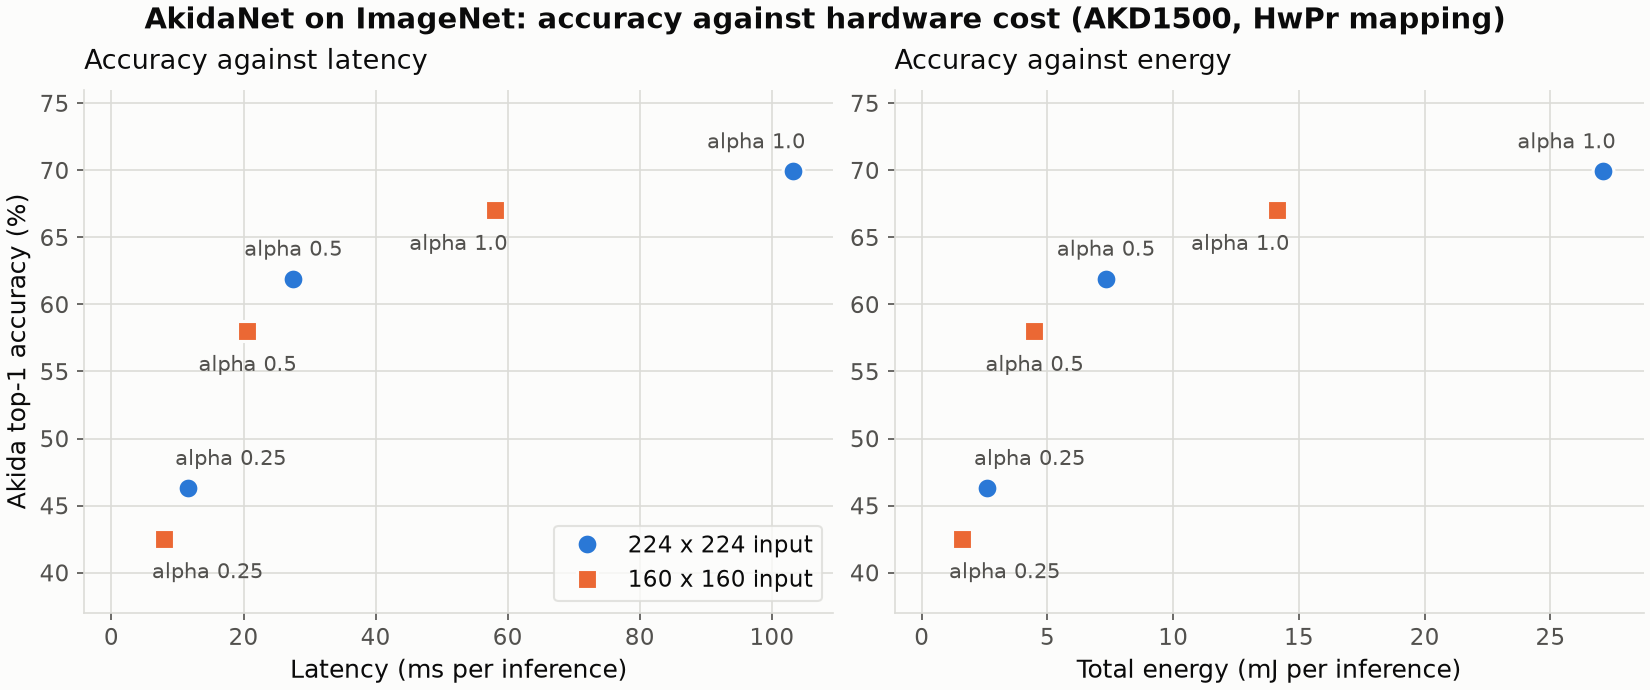
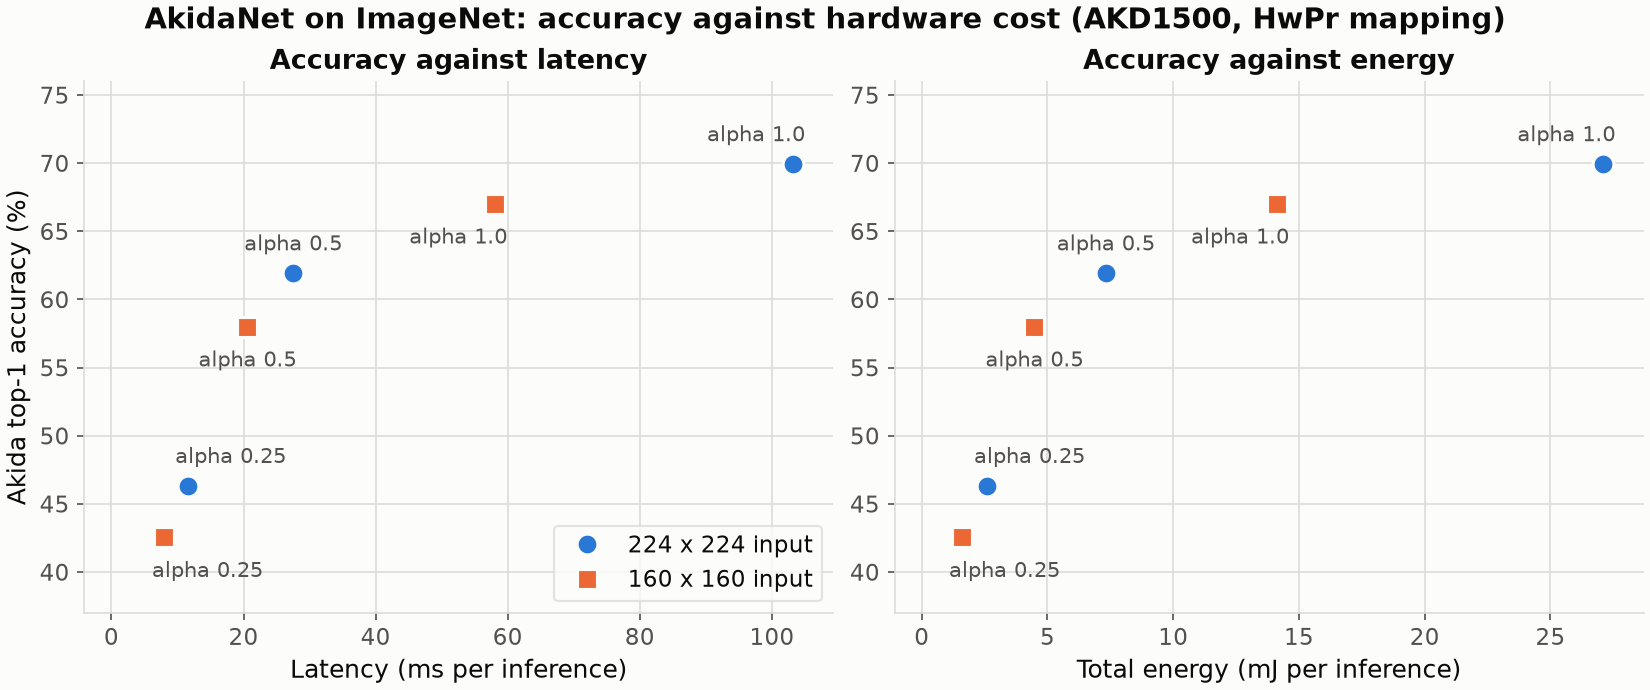
PR review suggestions; benchmark figures still to update

diff --git a/akida1/model_zoo/imagenet_akidanet/imagenet_akidanet_summary_plot.py b/akida1/model_zoo/imagenet_akidanet/imagenet_akidanet_summary_plot.py
@@ -5,11 +5,9 @@
 Two panels, one per cost measure -- latency and energy per inference -- both
 plotted against Akida top-1 accuracy, for all six models.
 
-Points only, deliberately. Three widely spaced widths per resolution is far too
-few to justify joining: a straight segment between two of them asserts a linear
-trade-off that was never measured, and reading the vertical gap between two such
-segments invents a difference between the resolutions that the data does not
-support.
+We deliberately use points here, not lines, as there are only three widely spaced
+widths per resolution which is far too few to justify joining and removes the risk
+of data overinterpretation.
 
 Hardware figures are taken from the ``HwPr`` mapping mode, which is the fastest
 and the lowest-energy of the three modes on every model here. Everything is read
@@ -31,11 +29,10 @@ import matplotlib.pyplot as plt
 # shows the one worth deploying.
 MAP_MODE = 'hwpr'
 
-# Series are the two input resolutions, in fixed order -- colour follows the
-# resolution, never its rank in the data. Marker shape repeats the distinction so
-# identity never rests on colour alone.
-# 'label_dy' pushes each series' point labels to opposite sides, which is what
-# keeps them apart where points of the two series land close together.
+# Series are the two input resolutions, in fixed order, identified by both colour 
+# and marker shape.
+# 'label_dy' pushes each series' point labels to opposite sides, to improve 
+# readability with close data points.
 SERIES = [
     {'resolution': 224, 'color': '#2a78d6', 'marker': 'o', 'label': '224 x 224 input',
      'label_dy': 11},
@@ -106,7 +103,7 @@ def plot_summary(metrics, savepath=None):
                             color=INK_MUTED, zorder=4)
 
         ax.set_xlabel(panel['xlabel'], fontsize=12, color=INK)
-        ax.set_title(panel['title'], fontsize=13, color=INK, loc='left', pad=10)
+        ax.set_title(panel['title'], fontsize=13, fontweight='bold', color=INK)#, loc='left', pad=10)
         ax.set_xlim(-0.04 * x_max, 1.06 * x_max)
         ax.set_ylim(37, 76)
         ax.grid(True, color=GRID, linewidth=0.8, zorder=0)

diff --git a/akida1/model_zoo/imagenet_akidanet/imagenet_akidanet_eval.py b/akida1/model_zoo/imagenet_akidanet/imagenet_akidanet_eval.py
@@ -7,8 +7,8 @@ Selects one model by width multiplier and input resolution, and evaluates one of
 its three variants:
 
   float  full-precision Keras model
-  qat    quantization-aware-trained Keras model (8-bit input, 4-bit weights and
-         activations)
+  qat    quantized Keras model (8-bit input, 4-bit weights and activations) fine
+         tuned with quantization aware training (QAT)
   akida  the converted Akida model, run on hardware if a device is present and
          on the software backend otherwise
 

diff --git a/akida1/model_zoo/imagenet_akidanet/imagenet_akidanet_benchmark.py b/akida1/model_zoo/imagenet_akidanet/imagenet_akidanet_benchmark.py
@@ -179,7 +179,7 @@ if __name__ == '__main__':
     if args.save_metrics:
         full_savepath = pathlib.Path(__file__).parent / 'docs' / ('ref_' + full_savepath)
     plot_full_model_results(full_results, ak_model, device,
-                            model_name=str(loadmodel),
+                            model_name=f'akidanet_imagenet alpha={args.alpha} {args.resolution}px',
                             savepath=full_savepath)
     print('Full model results plot saved to ' + str(full_savepath))
 

diff --git a/akida1/model_zoo/imagenet_akidanet/README.md b/akida1/model_zoo/imagenet_akidanet/README.md
@@ -121,24 +121,22 @@ activations that are zero, and therefore the work the hardware skips.
 Three patterns in these numbers are worth knowing before you pick a model.
 
 **Conversion to Akida is free.** The Akida column tracks the QAT column to within
-about 0.2 points everywhere. Conversion changes the representation, not the
-computation, so this is the expected result — and a useful sanity check if you
-convert a model of your own and see a real drop.
+about 0.2 points everywhere. Conversion changes the representation, not the computation, so this is the expected result. It's also a useful sanity check: if you convert a model of your own and see a real drop, something has gone wrong.
 
 **Quantization gets more expensive as the model gets narrower.** Going from float
 to 4-bit costs roughly 2 points of top-1 at alpha 1.0, around 3 to 4 points at
 alpha 0.5, and 7 points or more at alpha 0.25. A wide model has redundant
 capacity to absorb the loss of precision; a narrow one does not, and every filter
 has to carry more of the representation. If you are choosing a width, note that
-the *quantized* accuracies are spread further apart than the float ones — alpha
+the *quantized* accuracies are spread further apart than the float ones: alpha
 0.25 looks more competitive before quantization than it is after it.
 
 Do not read these figures as the cost of quantization in general, though. The
 drop is strongly task dependent, and ImageNet-1k is about as hard a task as this
-scale of model can take on — 1000 classes, with fine distinctions between many of
+scale of model can take on: 1000 classes, with fine distinctions between many of
 them. On an easier task the same architectures lose almost nothing. Fine-tuned on
 [PlantVillage](../plant_village/README.md), alpha 0.5 goes from 99.61% float to
-99.43% on Akida — a drop of under 0.2 points. On
+99.43% on Akida, a drop of under 0.2 points. On
 [Visual Wake Words](../vww/README.md), even alpha 0.25 goes from 89.33% to
 88.42%, under a single point. What makes 4-bit weights bite here is having to
 separate 1000 classes; a 38-class or 2-class head has far more margin to spare.
@@ -159,7 +157,7 @@ onto the fewest Neural Processors it fits in, keeping power low. **AllNPs**
 spreads it across as many NPs as it can while keeping the number of hardware
 passes down, trading a modest power increase for a proportional latency
 reduction. **HwPr** also uses every NP available, but lets the mapper split the
-work over more passes instead of minimising them — the extra parallelism within
+work over more passes instead of minimising them: the extra parallelism within
 a pass can cut latency further.
 
 <!--
@@ -517,9 +515,11 @@ anything.
 
 ## The AkidaNet architecture
 
-AkidaNet is a variant of **MobileNet v1**, reshaped so that every operation maps
-cleanly onto Akida 1. It keeps MobileNet's core idea — depthwise-separable
-convolutions to cut parameter count and compute — and changes three things.
+AkidaNet is a variant of **MobileNet v1**, 
+[Howard et al, (2017)](https://arxiv.org/abs/1704.04861)
+reshaped so that every operation maps cleanly onto Akida 1. It keeps 
+MobileNet's core idea — depthwise-separable convolutions to cut parameter 
+count and compute — and changes three things.
 
 **1. The first four blocks use standard convolutions, not separable ones.**
 
@@ -550,7 +550,7 @@ You can confirm the ordering on any of these models by listing the layers around
 `separable_13/global_avg`.
 
 Points 2 and 3 are what `akida_models` selects automatically when the Akida v1
-context is active — see `get_params_by_version()`. This matters in practice:
+context is active (see `get_params_by_version()`). This matters in practice:
 the default context is **v2**, which builds the unfused, post-ReLU-pooling
 variant and will silently fail to match these weights. All model construction in
 this example is wrapped in `with set_akida_version(AkidaVersion.v1):`.
@@ -611,7 +611,7 @@ section of the top-level README.
 **ImageNet-1k** (ILSVRC 2012) is the standard large-scale image classification
 benchmark: 1000 object categories, 1,281,167 training images and 50,000
 validation images. Accuracy in this example is measured on the validation split
-at its full size — no subsampling.
+at its full size without subsampling.
 
 Images are preprocessed with the conventional ImageNet validation recipe: an
 aspect-preserving resize so the shorter side becomes `round(size * 1.143)`
@@ -627,8 +627,8 @@ mirror. It needs no setup and is not subject to ImageNet's redistribution terms.
 
 <img src="docs/sample_mosaic.png" alt="The 10 images of the ImageNet-like sample pack with their labels" width="700">
 
-*The 10-image sample pack. Enough to verify a pipeline and to drive an
-activity-realistic hardware benchmark; nowhere near enough to measure accuracy.*
+*The 10-image sample pack is enough to verify the pipeline and drive an
+activity-realistic hardware benchmark but nowhere near enough to measure accuracy.*
 
 > ImageNet is distributed under its own terms, which permit non-commercial
 > research and educational use and do **not** permit redistribution. No ImageNet
@@ -678,7 +678,7 @@ ln -s /path/to/imagenet ./data/imagenet_tfds
 ```
 
 If you only want to run the hardware benchmark or a quick smoke test, you can
-skip all of this — both work from the 10-image sample pack.
+skip all of this as both work from the 10-image sample pack.
 
 ## Pipeline
 
@@ -709,13 +709,6 @@ akidanet_imagenet_<RES>_alpha_<A>_qat.fbz     converted Akida model
 ```
 
 where `<RES>` is `160` or `224` and `<A>` is `0.25`, `0.5` or `1.0`.
-
-These names are deliberately more regular than the ones published on
-data.brainchip.com, which omit the alpha entirely for 1.0 and write the others as
-integer percentages (`_alpha_50`). `model_fetch.sh` at the repository root
-downloads and renames them, so the mapping is reproducible. `model_path()` in
-`imagenet_akidanet_model.py` builds a name from an alpha and a resolution if you
-want it in code.
 
 ### Using these models as transfer-learning backbones
 

diff --git a/.claude/commands/model-zoo-eval-example.md b/.claude/commands/model-zoo-eval-example.md
@@ -217,18 +217,19 @@ Verified differences (checked against akida_models 1.14.0 / akida 2.19.2):
 | `get_params_by_version()` → | `(fused=True, post_relu_gap=False, 'ReLU6')` | `(fused=False, post_relu_gap=True, 'ReLU3.75')` |
 | Separable conv | fused single `SeparableConv2D` | separate `DepthwiseConv2D` + `Conv2D` |
 | Global avg pooling | **before** the neighbouring ReLU | **after** the ReLU |
-| Quantization tool | `cnn2snn quantize -i 8 -w 4 -a 4` | `quantizeml` (installed: 1.2.4) |
+| Quantization tool | `cnn2snn quantize -i 8 -w 4 -a 4` | `quantizeml` |
 | Default bit-width | 4 | 8 (`get_default_bitwidth()`) |
 | Published weights | `data.brainchip.com/models/AkidaV1/…`, `_iq8_wq4_aq4.h5` | `…/AkidaV2/…`, `_i8_w4_a4.h5` / `_i8_w8_a8.h5` |
 | Reference device | AKD1500, `CLOCK_FREQUENCY = 400e6` | AKD2500 — **verify the clock frequency** |
 
 `akida.MapMode` currently exposes three strategies, and the canonical example measures all
-three: `Minimal` minimises the hardware resources used, `AllNps` maximises the NPs used at the
-*minimum* number of hardware passes, and `HwPr` maximises the NPs used while letting the pass
-count grow. On AKD1500, `HwPr` was the fastest *and* the lowest-energy mapping on all six
-ImageNet models, so measure it rather than assuming two modes bracket the range. Confirm which
-modes are meaningful for the target device rather than assuming all three apply — and note
-that some sibling training examples (`vww`, `plant_village`) still measure only two.
+three: `Minimal` minimises the hardware resources used, `AllNps` maximises the NPs used while
+keeping the *minimum* number of hardware passes, and `HwPr` maximises the NPs used while 
+letting the pass count grow. On AKD1500, `HwPr` was the fastest *and* the lowest-energy 
+mapping on all six ImageNet models, so measure it rather than assuming two modes bracket 
+the range. Confirm which modes are meaningful for the target device rather than assuming 
+all three apply — and note that some sibling training examples (`vww`, `plant_village`) 
+still measure only two.
 
 **Write the architecture prose from the version you are targeting.** The AkidaNet
 description in `imagenet_akidanet` (fused separables, pre-ReLU pooling) is *v1-specific* and
